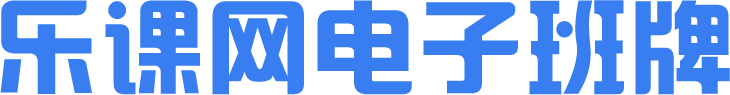
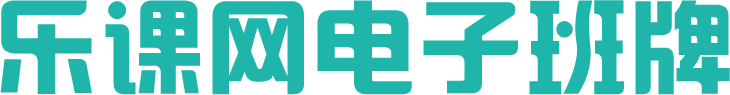
样式修改

diff --git a/src/containers/home/incentiveRank/index.scss b/src/containers/home/incentiveRank/index.scss
@@ -1,12 +1,12 @@
 .rank{
-    width: 10.96rem;
-	height: 8.3rem;
-	box-shadow: 0rem 0rem 0.2rem 0rem 
-		rgba(70, 99, 194, 0.3);
+    width: 11.16rem;
+	height: 8.72rem;
+	box-shadow: 0px 0px 20px 0px rgba(45, 196, 189, 0.3);
     border-radius: 0.16rem;
-    background: url('ASSETS/home/rank-bg.png');
+    background: url('ASSETS/home/rank-bg.png') white no-repeat;
+    background-position-y: 100%;
     background-size: 100%;
-    margin: 0.2rem 0.2rem 0.2rem 0.4rem;
+    margin: 0.2rem 0.2rem 0.2rem 0.2rem;
     position: relative;
     .top{
         .title{
@@ -26,18 +26,18 @@
     }
     .more{
         width: 1.6rem;
-        height: 0.52rem;
+        // height: 0.52rem;
         line-height: 0.52rem;
-        background-color: #387ef1;
-        box-shadow: 0rem 0rem 0.2rem 0rem 
-            rgba(56, 126, 241, 0.5);
+        background-color: white;
+        box-shadow: 0px 0px 20px 0px rgba(45, 196, 189, 0.5);
+        border: solid 2px #1fb5ab;
         border-radius: 0.26rem;
         display: block;
         float: right;
         margin-top: 0.24rem;
         margin-right: 0.28rem;
         font-size: 0.24rem;
-        color: #ffffff;
+        color: #1fb5ab;
         text-align: center;
         img{
             width: 0.12rem;
@@ -127,7 +127,7 @@
     .congratulations{
         font-size: 0.6rem;
         font-weight: 550;
-        color: #577cf3;
+        color: #1fb5ab;
         text-align: center;
         margin-top: 0.44rem;
         width: 100%;
@@ -139,7 +139,7 @@
     p{
         font-size: 0.18rem;
         line-height: 0.3rem;
-        color: #4664c2;   
+        color: #1fb5ab;   
     }
 }
 :global{
@@ -148,13 +148,13 @@
     }
     .ant-popover-inner{
         box-shadow: 0rem 0.03rem 0.06rem 0rem  rgba(0, 0, 0, 0.18);
-        border: solid 0.01rem #4664c2;
+        border: solid 0.01rem #1fb5ab;
     }
     .ant-popover-placement-bottomLeft > .ant-popover-content > .ant-popover-arrow{
         border-right-color: #fff;
         border-bottom-color: #fff;
-        border-top: solid 0.01rem #4664c2;
-        border-left: solid 0.01rem #4664c2;
+        border-top: solid 0.01rem #1fb5ab;
+        border-left: solid 0.01rem #1fb5ab;
         left: 10px;
     }
 }

diff --git a/src/containers/scheduleMore/index.scss b/src/containers/scheduleMore/index.scss
@@ -5,6 +5,7 @@
     overflow: hidden;
     position: relative;
     background-color: #fff;
+    // margin-top: 0.88rem;
     .tabsList{
         width: 100%;
         height: 1.08rem;
@@ -14,7 +15,7 @@
             height: 1.08rem;
             li{
                 font-size: 0.36rem; 
-                color: #93bbfc;
+                color: #98ddd9;
                 float: left;
                 height: 1.08rem;
                 line-height: 1.08rem;
@@ -22,7 +23,7 @@
                 font-weight: normal;
             }
             .tab-active{
-                color: #387ef1;
+                color: #1fb5ab;
                 position: relative;
                 text-decoration: none;
                 font-weight: bold;
@@ -34,9 +35,9 @@
                     content: '';
                     width: 0.62rem;
                     height: 0.06rem;
-                    background-color: #1e69e5;
                     border-radius: 0.03rem;
-                    box-shadow: 0rem -0.03rem 0.06rem 0rem 	rgba(30, 105, 229, 0.2);
+                    background-color: #1fb5ab;
+	                box-shadow: 0px -3px 6px 0px rgba(31, 181, 171, 0.2);
                 }
             }
         }
@@ -123,7 +124,7 @@
                     }
                     .lesson{
                         .name{
-                            color: #387ef1;
+                            color: #1fb5ab;
                             font-size: 0.3rem;
                             margin-top: 0.12rem;
                             .lessonname{

diff --git a/src/containers/noticeMore/index.scss b/src/containers/noticeMore/index.scss
@@ -5,7 +5,7 @@
     overflow-y: auto;
     font-size: 0.26rem;
     background-color: #efefef;
-    margin-top: 0.88rem;
+    // margin-top: 0.88rem;
     .list{
         margin-bottom: 0.32rem;
         .content{
@@ -31,11 +31,11 @@
                     padding-left: 0.08rem;
                     .expand{
                         float: left;
-                        width: 0.1rem;
-	                    height: 0.17rem;
+                        width: 0.18rem;
+	                    // height: 0.17rem;
                         position: absolute;
-                        right: 0.12rem;
-                        top: 0.06rem; 
+                        right: 0.06rem;
+                        top: 0.08rem; 
                     }
                     .collapse{
                         width: 0.18rem;

diff --git a/src/components/classTable/ClassTable.scss b/src/components/classTable/ClassTable.scss
@@ -19,7 +19,7 @@
                 font-weight: normal;
             }
             .tab-active{
-                color: #387ef1;
+                color: #1fb5ab;
                 position: relative;
                 text-decoration: none;
                 font-weight: bold;
@@ -123,7 +123,7 @@
                     }
                     .lesson{
                         .name{
-                            color: #387ef1;
+                            color: #1fb5ab;
                             font-size: 0.3rem;
                             margin-top: 0.12rem;
                             .lessonname{

diff --git a/src/containers/login/index.scss b/src/containers/login/index.scss
@@ -54,7 +54,7 @@
     input[type="button"]{
         width: 6.6rem;
         height: 0.87rem;
-        background-color: #387ef1;
+        background-color: #2dc4bd;
         border: none;
         border-radius: 0.6rem;
         font-size: 0.39rem;
@@ -63,7 +63,7 @@
         margin: 1.2rem auto 0;
         display: block;
         &:active{
-            background-color: #3271db;
+            background-color: #2dc4bd;
         }
     }
 }

diff --git a/src/containers/noticeMore/index.jsx b/src/containers/noticeMore/index.jsx
@@ -191,7 +191,7 @@ class Notice extends Component {
         )
         const notice = (
             <Fragment>
-                <BackPrevHeader />
+                <BackPrevHeader title={'通知列表'} />
                 {
                     loading ? <div className={styles['loading']}>
                         <img src={loadingImg} />

diff --git a/src/containers/home/todayLessonSchedule/TableMain/index.scss b/src/containers/home/todayLessonSchedule/TableMain/index.scss
@@ -43,7 +43,7 @@ $oddLine-color: #f6f8ff;
             
         }
         &:nth-child(odd) {
-            background-color: rgba(96,220,192,0.2); 
+            background-color: rgba(96,220,192,0.1); 
         }
     }
     .noTableData{

diff --git a/src/containers/home/Notice/TableMain/index.scss b/src/containers/home/Notice/TableMain/index.scss
@@ -45,7 +45,7 @@
                 }
             }
             &:nth-child(odd) {
-                background-color:rgba(96,220,192,0.2);; 
+                background-color:rgba(96,220,192,0.1);; 
             }
         }
     }

diff --git a/src/components/backPrev/index.scss b/src/components/backPrev/index.scss
@@ -2,7 +2,7 @@
     width: 100%;
     height: 0.88rem;
     background-color: #1fb5ab;
-    position: fixed;
+    // position: fixed;
     top:0rem;
     z-index: 1;
     text-align: center;

diff --git a/src/containers/home/todayLessonSchedule/index.scss b/src/containers/home/todayLessonSchedule/index.scss
@@ -1,8 +1,8 @@
 @import 'STYLES/theme1';
 
 .schedule_blue {
-    width: 7.24rem;
-    height: 5.3rem;
+    width: 7.44rem;
+    height: 5.72rem;
 }
 
 

diff --git a/src/containers/home/Notice/index.scss b/src/containers/home/Notice/index.scss
@@ -3,5 +3,5 @@
 .notice_blue {
     height: 2.8rem;
     overflow: hidden;
-    width: 7.24rem;
+    width: 7.44rem;
 }
